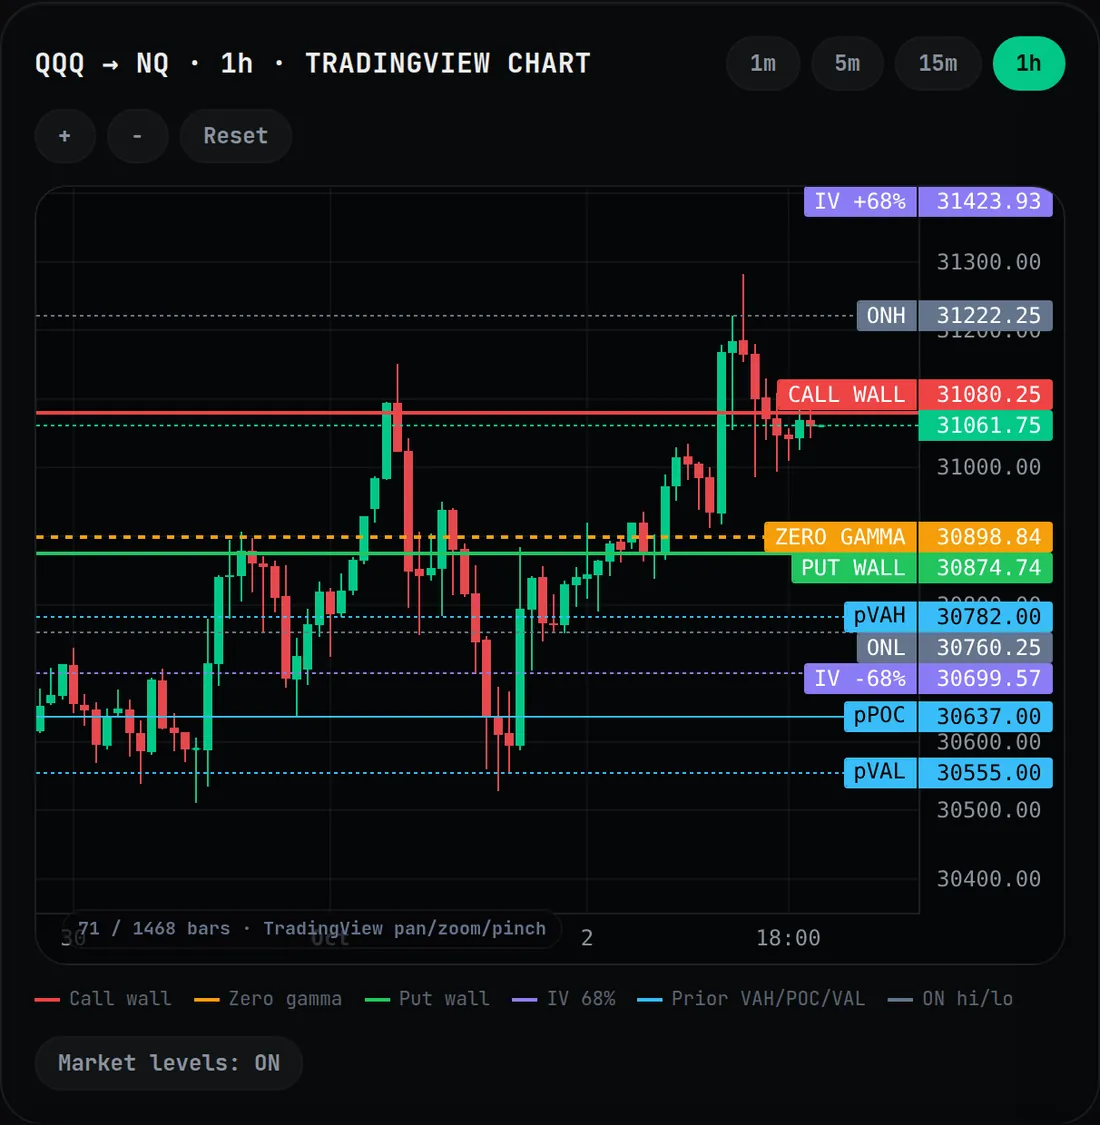
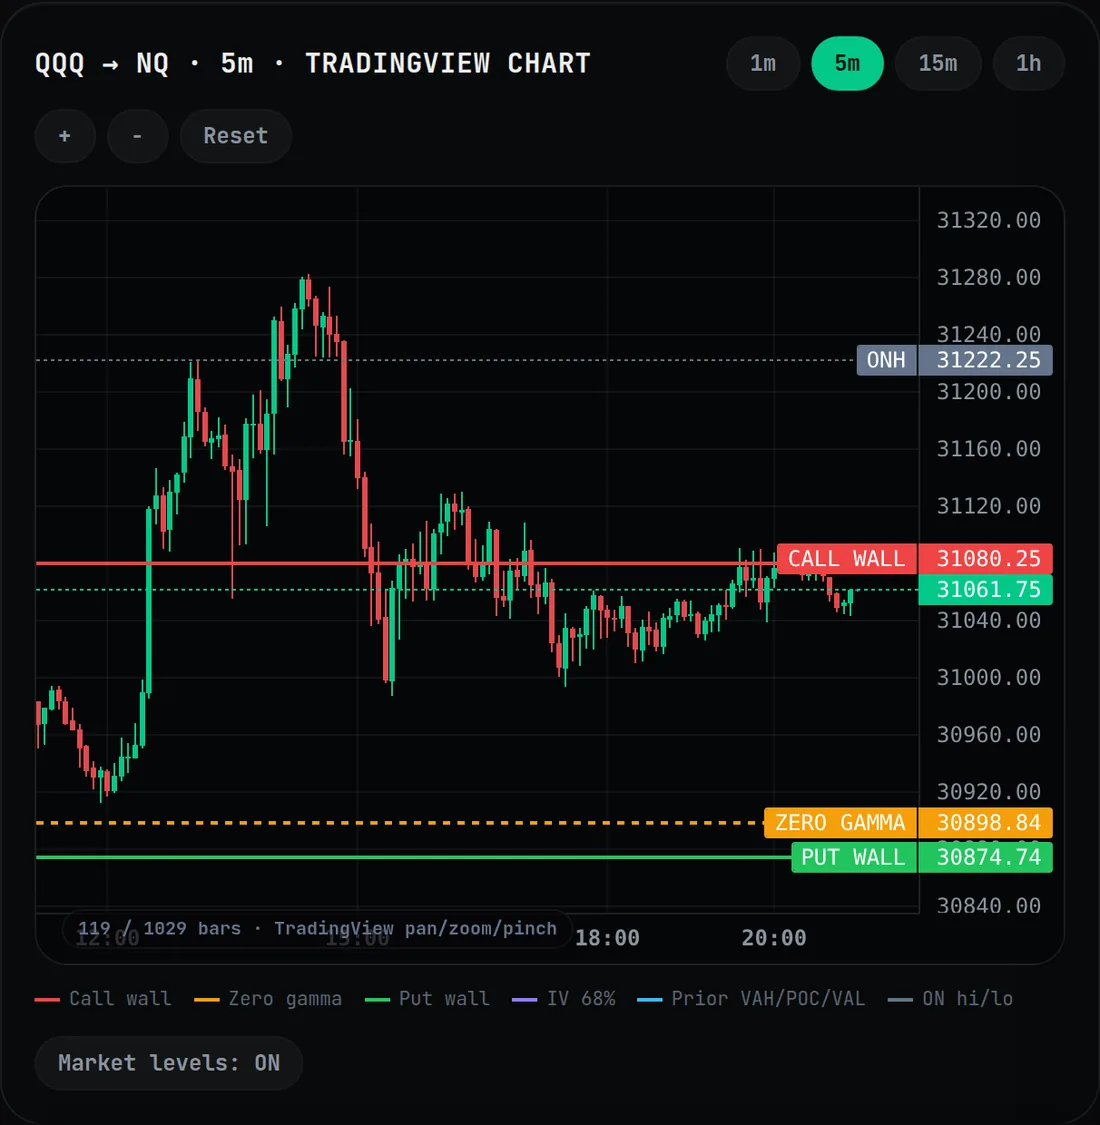
/features/gex: retake chart captures on the 5m interval (hero NQ/MNQ, chart tile, layout); callouts re-pinned to the new line positions

diff --git a/features/gex.html b/features/gex.html
@@ -116,14 +116,14 @@
 <div class="fg-shot-stage">
 <picture>
 <source media="(max-width:600px)" srcset="/assets/images/gex-real/hero-mnq-0dte-390.webp" width="740" height="1240">
-<img src="/assets/images/gex-real/hero-nq-0dte-1440.webp" width="1100" height="1125" fetchpriority="high" decoding="async" alt="Real capture of the Stryker GEX chart: QQQ 0DTE levels converted to Nasdaq futures on a 1-hour candlestick chart, with the call wall, zero gamma and put wall drawn as lines.">
+<img src="/assets/images/gex-real/hero-nq-0dte-1440.webp" width="1100" height="1125" fetchpriority="high" decoding="async" alt="Real capture of the Stryker GEX chart: QQQ 0DTE levels converted to Nasdaq futures on a 5-minute candlestick chart, with the call wall, zero gamma and put wall drawn as lines.">
 </picture>
-<span class="fg-co fg-co-call up" style="--yd:36.7%;--ym:41%;--d:.5s"><i></i><b>Call wall</b><small>heaviest call strike above price</small></span>
-<span class="fg-co fg-co-zero up" style="--yd:47.7%;--ym:53.6%;--d:1.1s"><i></i><b>Zero gamma</b><small>where the regime reading flips</small></span>
-<span class="fg-co fg-co-put" style="--yd:49.2%;--ym:55.3%;--d:1.7s"><i></i><b>Put wall</b><small>heaviest put strike below price</small></span>
+<span class="fg-co fg-co-call up" style="--yd:50%;--ym:56.3%;--d:.5s"><i></i><b>Call wall</b><small>heaviest call strike above price</small></span>
+<span class="fg-co fg-co-zero up" style="--yd:73.1%;--ym:82.7%;--d:1.1s"><i></i><b>Zero gamma</b><small>where the regime reading flips</small></span>
+<span class="fg-co fg-co-put" style="--yd:76.1%;--ym:86.2%;--d:1.7s"><i></i><b>Put wall</b><small>heaviest put strike below price</small></span>
 </div>
 </div>
-<figcaption class="fg-cap">Real capture, delayed Cboe data, Fri 2 Oct 2026, 16:00 ET (QQQ 0DTE, shown on Nasdaq futures). Market closed: these are that session’s levels, not today’s.</figcaption>
+<figcaption class="fg-cap">Real capture, delayed Cboe data, Fri 2 Oct 2026, 16:00 ET (QQQ 0DTE, shown on Nasdaq futures, 5m chart). Market closed: these are that session’s levels, not today’s.</figcaption>
 </figure>
 </header>
 
@@ -200,7 +200,7 @@
 <div class="fg-tile ft-reveal"><div class="fg-glyph"><svg viewBox="0 0 200 64" fill="none" aria-hidden="true"><line class="fg-on" x1="14" y1="14" x2="186" y2="14" stroke-width="2" stroke-dasharray="6 5"/><line class="fg-on" x1="14" y1="50" x2="186" y2="50" stroke-width="2" stroke-dasharray="6 5"/><path class="fg-path fg-draw" style="--len:200;--dur:1.4s" d="M14 38 C44 20 70 46 98 30 S150 22 186 34" stroke-width="2"/></svg></div>
 <h3>Overnight high / low</h3><p>The extremes made between the prior close and the next open, a common reference for where the session begins.</p><div class="fg-how">Highest and lowest futures price from 16:00 New York time on the prior session to 09:30 today.</div></div>
 
-<div class="fg-tile ft-reveal"><div class="fg-glyph fg-crop"><img src="/assets/images/gex-real/tile-chart.webp" width="720" height="511" loading="lazy" decoding="async" alt="Real capture of the GEX futures chart, SPX 1W levels on ES 1-hour candles, with IV band, overnight high, zero gamma, prior value area and put wall drawn as labelled lines."><span class="fg-crop-cap">Real capture, delayed Cboe data, Fri 2 Oct 2026, 16:15 ET (SPX 1W shown on ES, 1h chart). Market closed: not current levels.</span></div>
+<div class="fg-tile ft-reveal"><div class="fg-glyph fg-crop"><img src="/assets/images/gex-real/tile-chart.webp" width="720" height="511" loading="lazy" decoding="async" alt="Real capture of the GEX futures chart, SPX 1W levels on ES 5-minute candles, with the overnight high, zero gamma, prior value area high and prior point of control drawn as labelled lines."><span class="fg-crop-cap">Real capture, delayed Cboe data, Fri 2 Oct 2026, 16:15 ET (SPX 1W shown on ES, 5m chart). Market closed: not current levels.</span></div>
 <h3>Chart with levels</h3><p>A TradingView Lightweight Charts candlestick chart for the futures contract, with the walls, the flip, the IV band and the market levels drawn as lines. Switch 1m, 5m, 15m or 1h.</p><div class="fg-how">Candles are delayed futures data. Market levels can be switched on and off from the legend.</div></div>
 
 <div class="fg-tile ft-reveal"><div class="fg-glyph"><svg viewBox="0 0 200 64" fill="none" aria-hidden="true"><circle class="g-pinch l" cx="78" cy="32" r="7" fill="var(--ink-2)" opacity=".5"/><circle class="g-pinch r" cx="122" cy="32" r="7" fill="var(--ink-2)" opacity=".5"/><path d="M66 32h-18M134 32h18M56 26l-8 6 8 6M144 26l8 6-8 6" stroke="var(--ink-2)" stroke-width="1.6" stroke-linecap="round" stroke-linejoin="round"/></svg></div>
